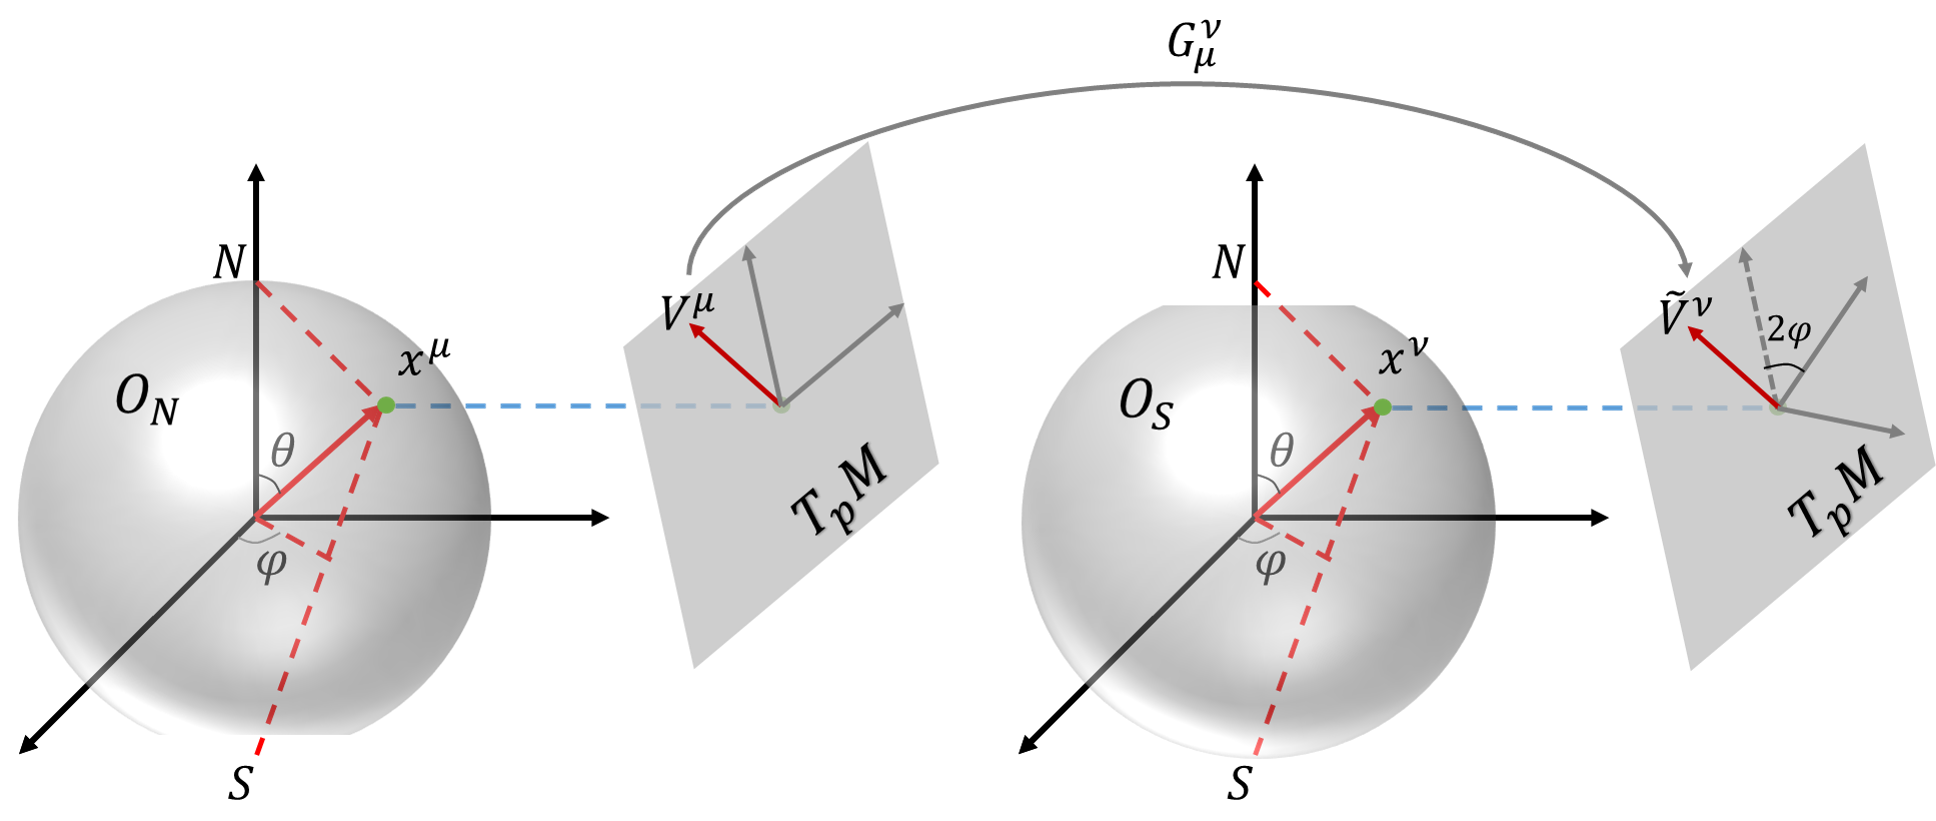
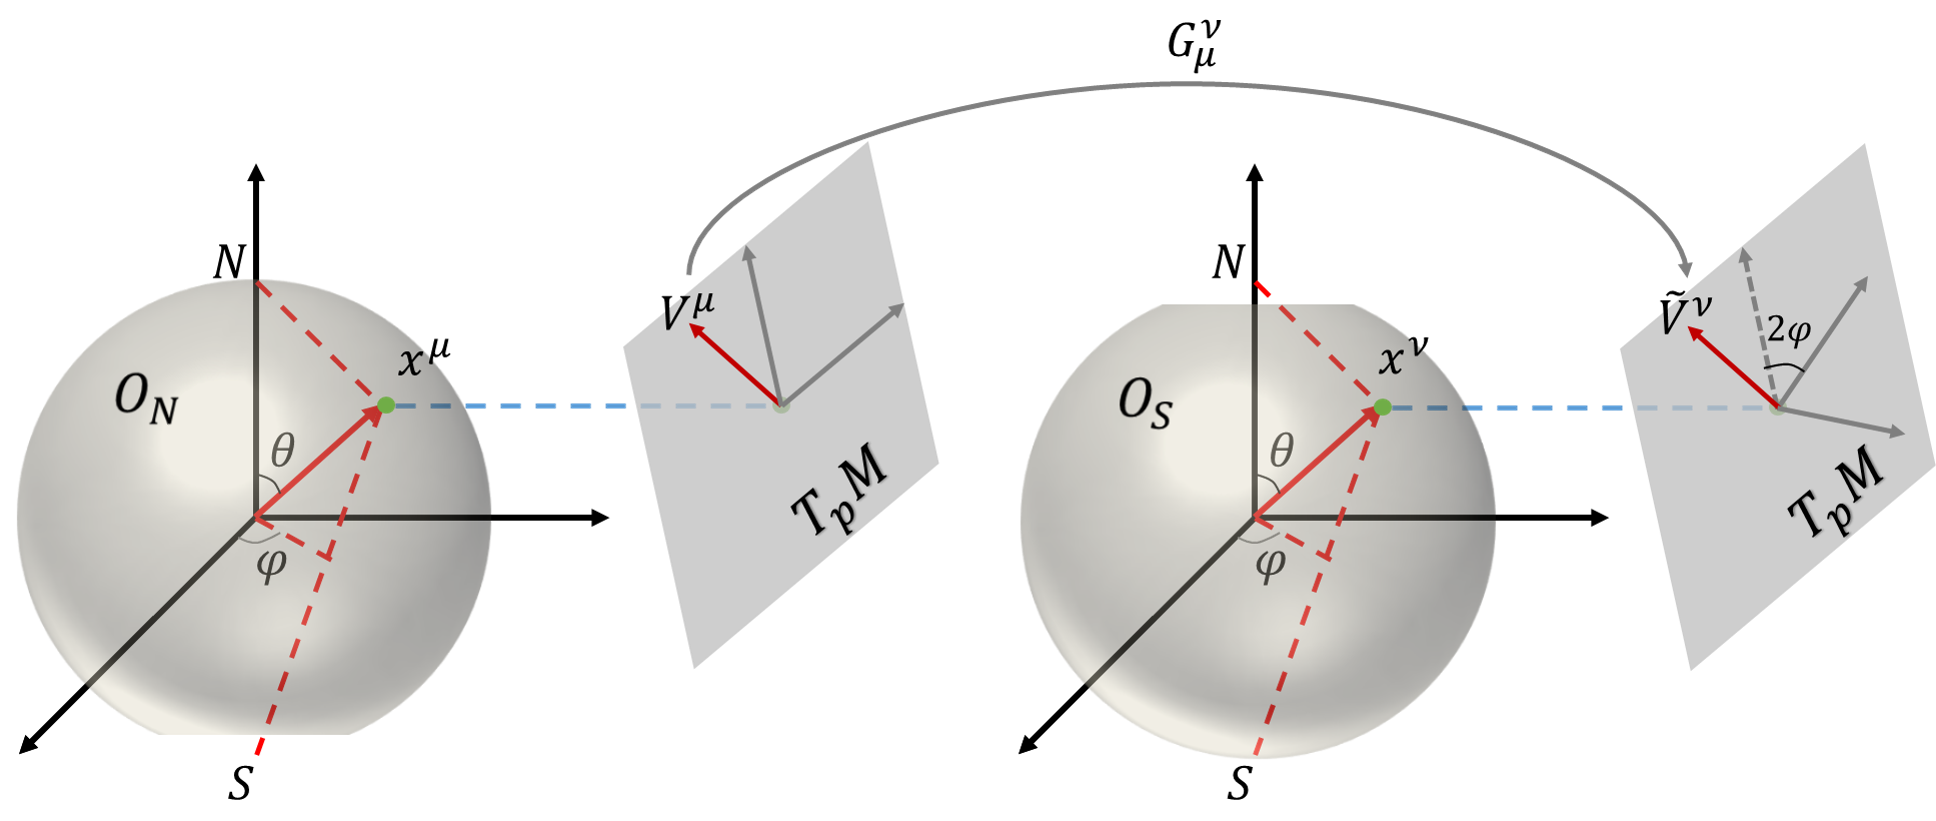
fiber

diff --git a/_posts/2018-11-30-Fiber-Bundles/2018-11-30-Fiber-Bundles.md b/_posts/2018-11-30-Fiber-Bundles/2018-11-30-Fiber-Bundles.md
@@ -309,7 +309,24 @@ where $G ^ \nu _ \mu \equiv \frac{\partial y ^ \nu}{\partial x ^ \mu} \in G$ is 
 >
 ><img src = "https://raw.githubusercontent.com/yf-liu/yf-liu.github.io/master/_posts/2018-11-30-Fiber-Bundles/assets/tangent_bundle.png" width="80%">
 
+### Parallelism
 
+The way to determine uniquely the parallel vector $v _ 1$ at the point of $x _ 1$ to $v _ 2$ at the point of $x _ 2$ :
+
+- A path $C _ X$ connecting these two points, where $x _ 1 = C _ X (t = 0) , x _ 2 = C _ X (t = T)$.
+- A point $x$ which is nearby $x _ 2$: $x \defas C _ X (t = T - \dd t)$.
+- Imagine the manifold $TM$ is imbedded in a Euclidean space $\realset ^ d (T \realset ^ d = \realset ^ d)$ and view $C _ X$ as sitting inside $\realset ^ d$.
+- Treat the vector $v _ 2$ as an element of $\realset ^d$ and find the parallel vector to $v _ 2$ at the point of $x$.
+- Choose the component of it which is tangent to $X$ and discard the normal component.
+- Repeat the process till the point $x _1$.
+
+The above procedure ensures that:
+
+- Reflexivity: Every vector is parallel to itself.
+- Symmetry: If $v _ 1$ is parallel to $v _ 2$, $v _ 2$ is parallel to $v _ 1$.(same path)
+- Transitivity: If $v _ 1$ is parallel to $v _ 2$ and $v _ 2$ is parallel to $v _ 3$, it results in that $v _ 1$ is parallel to $v _ 3$.
+
+<img src = "https://raw.githubusercontent.com/yf-liu/yf-liu.github.io/master/_posts/2018-11-30-Fiber-Bundles/assets/parallelism.png" width="80%">
 
 ## References
 
